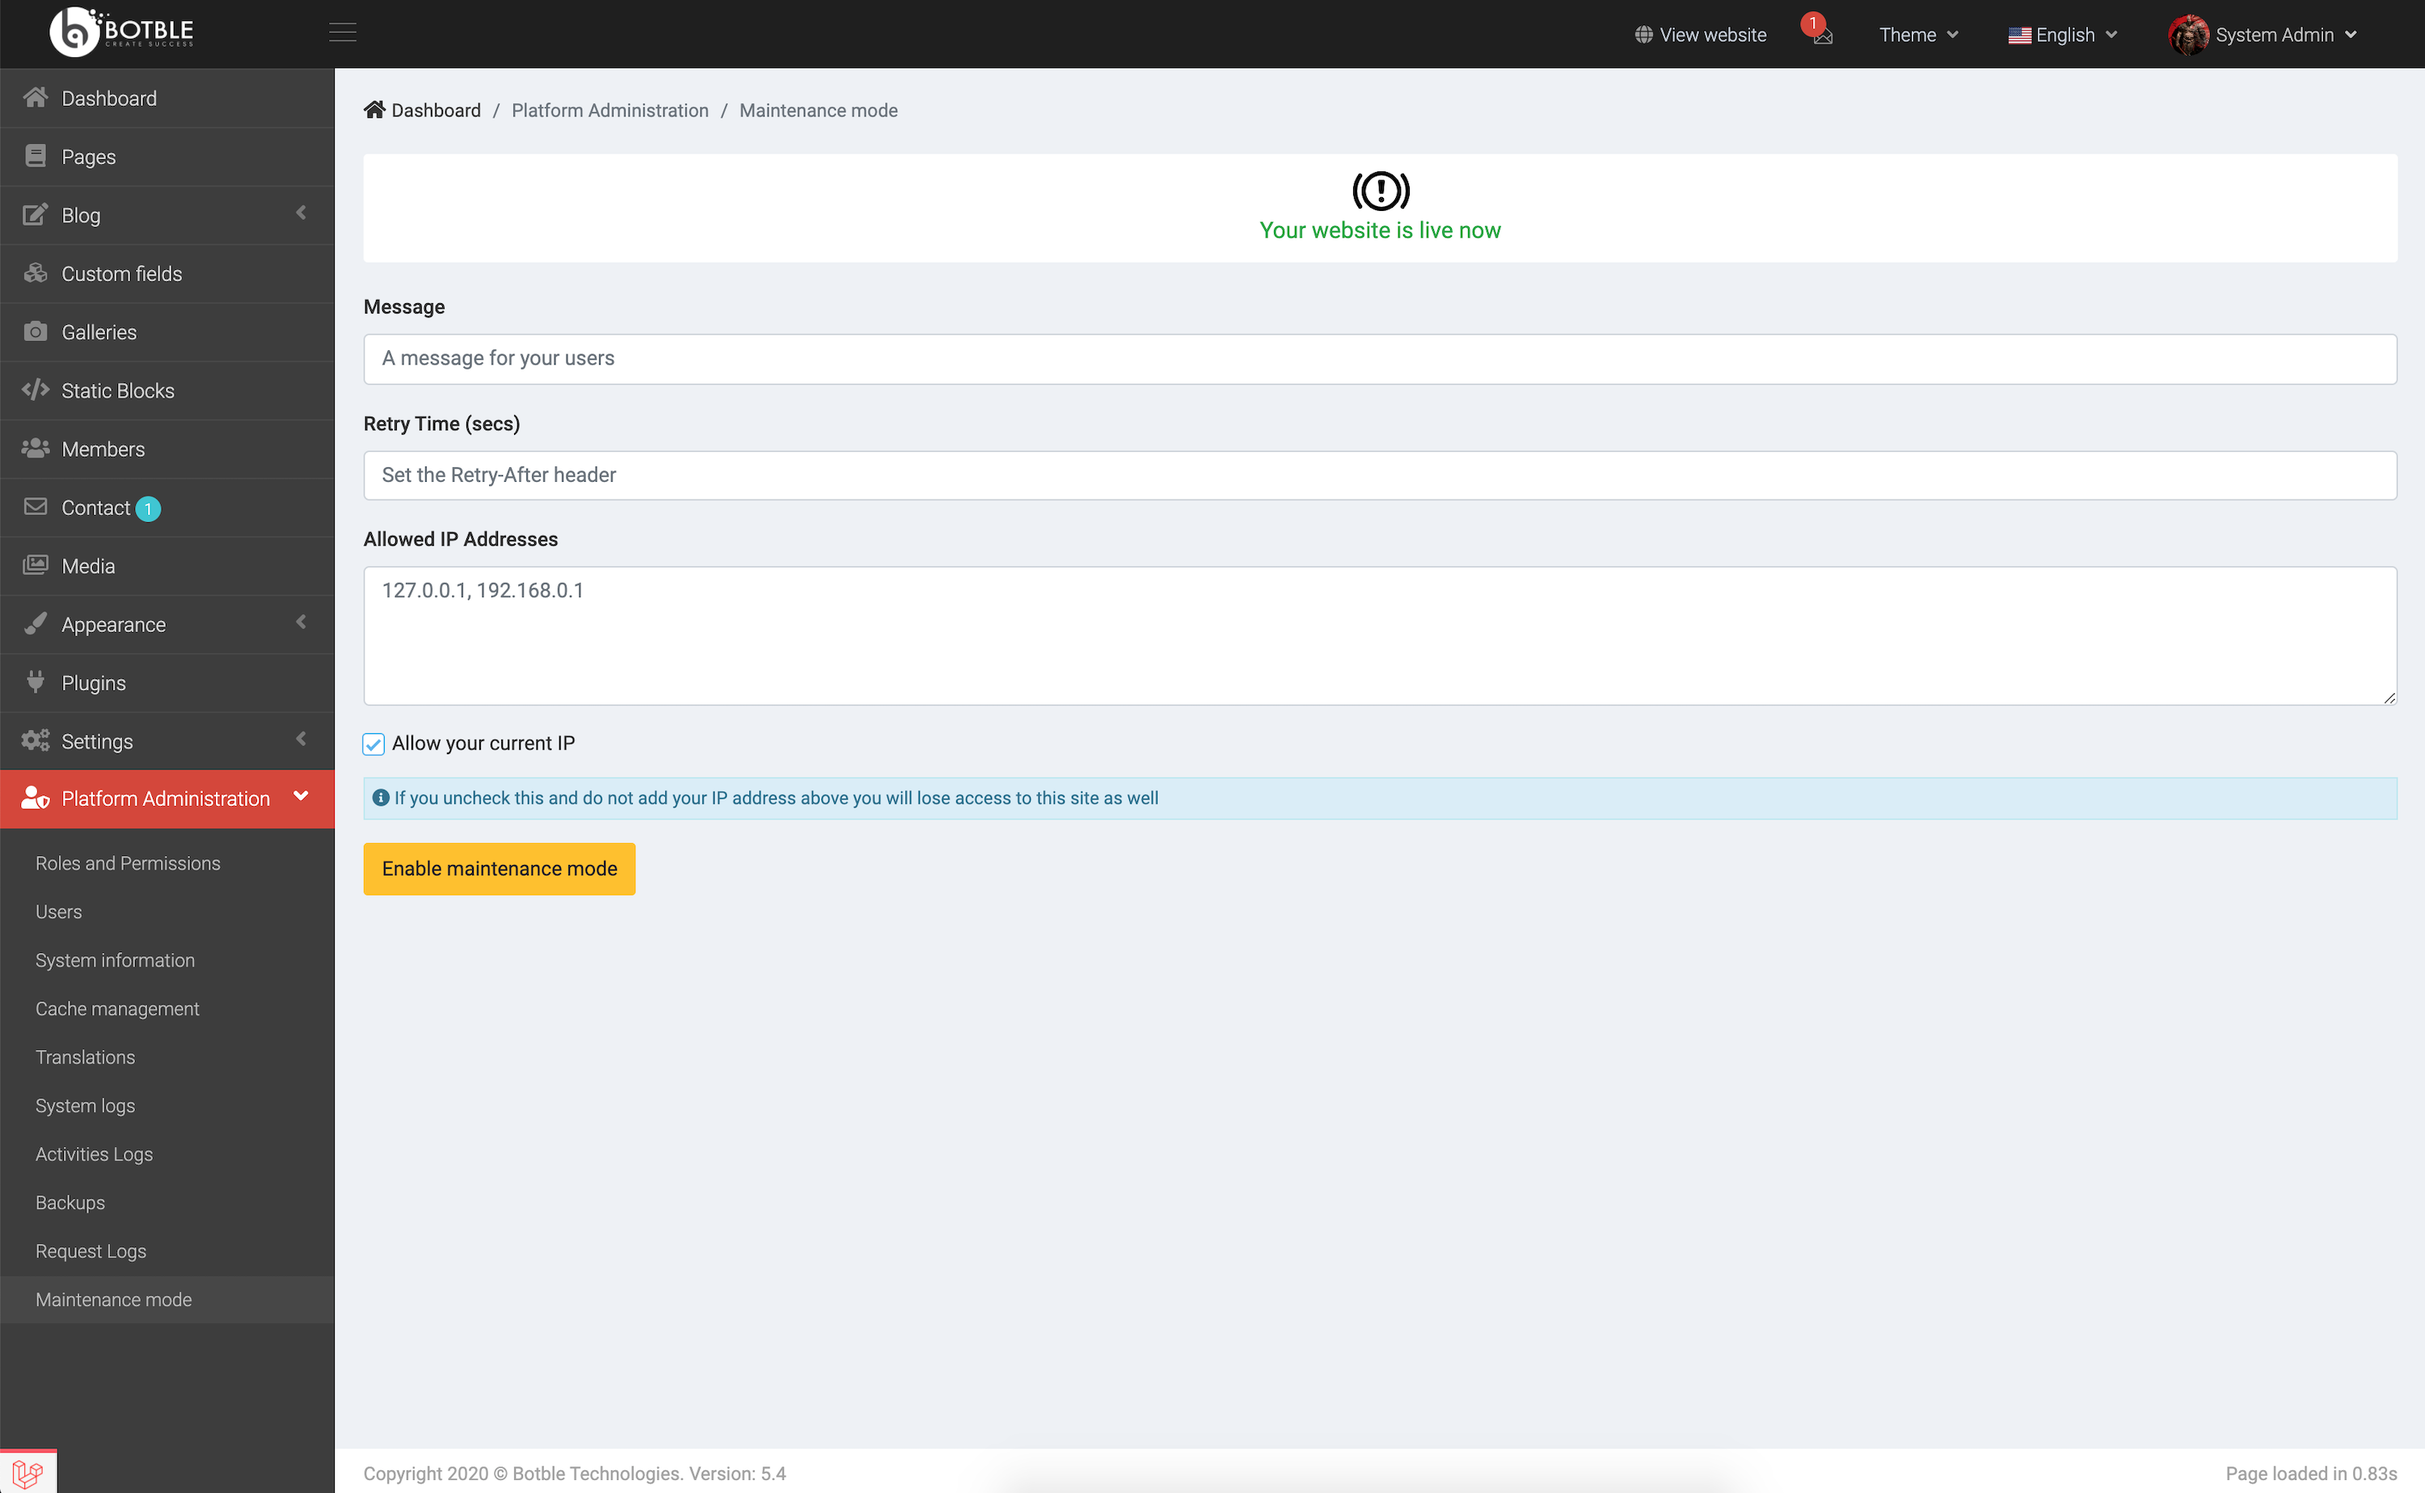
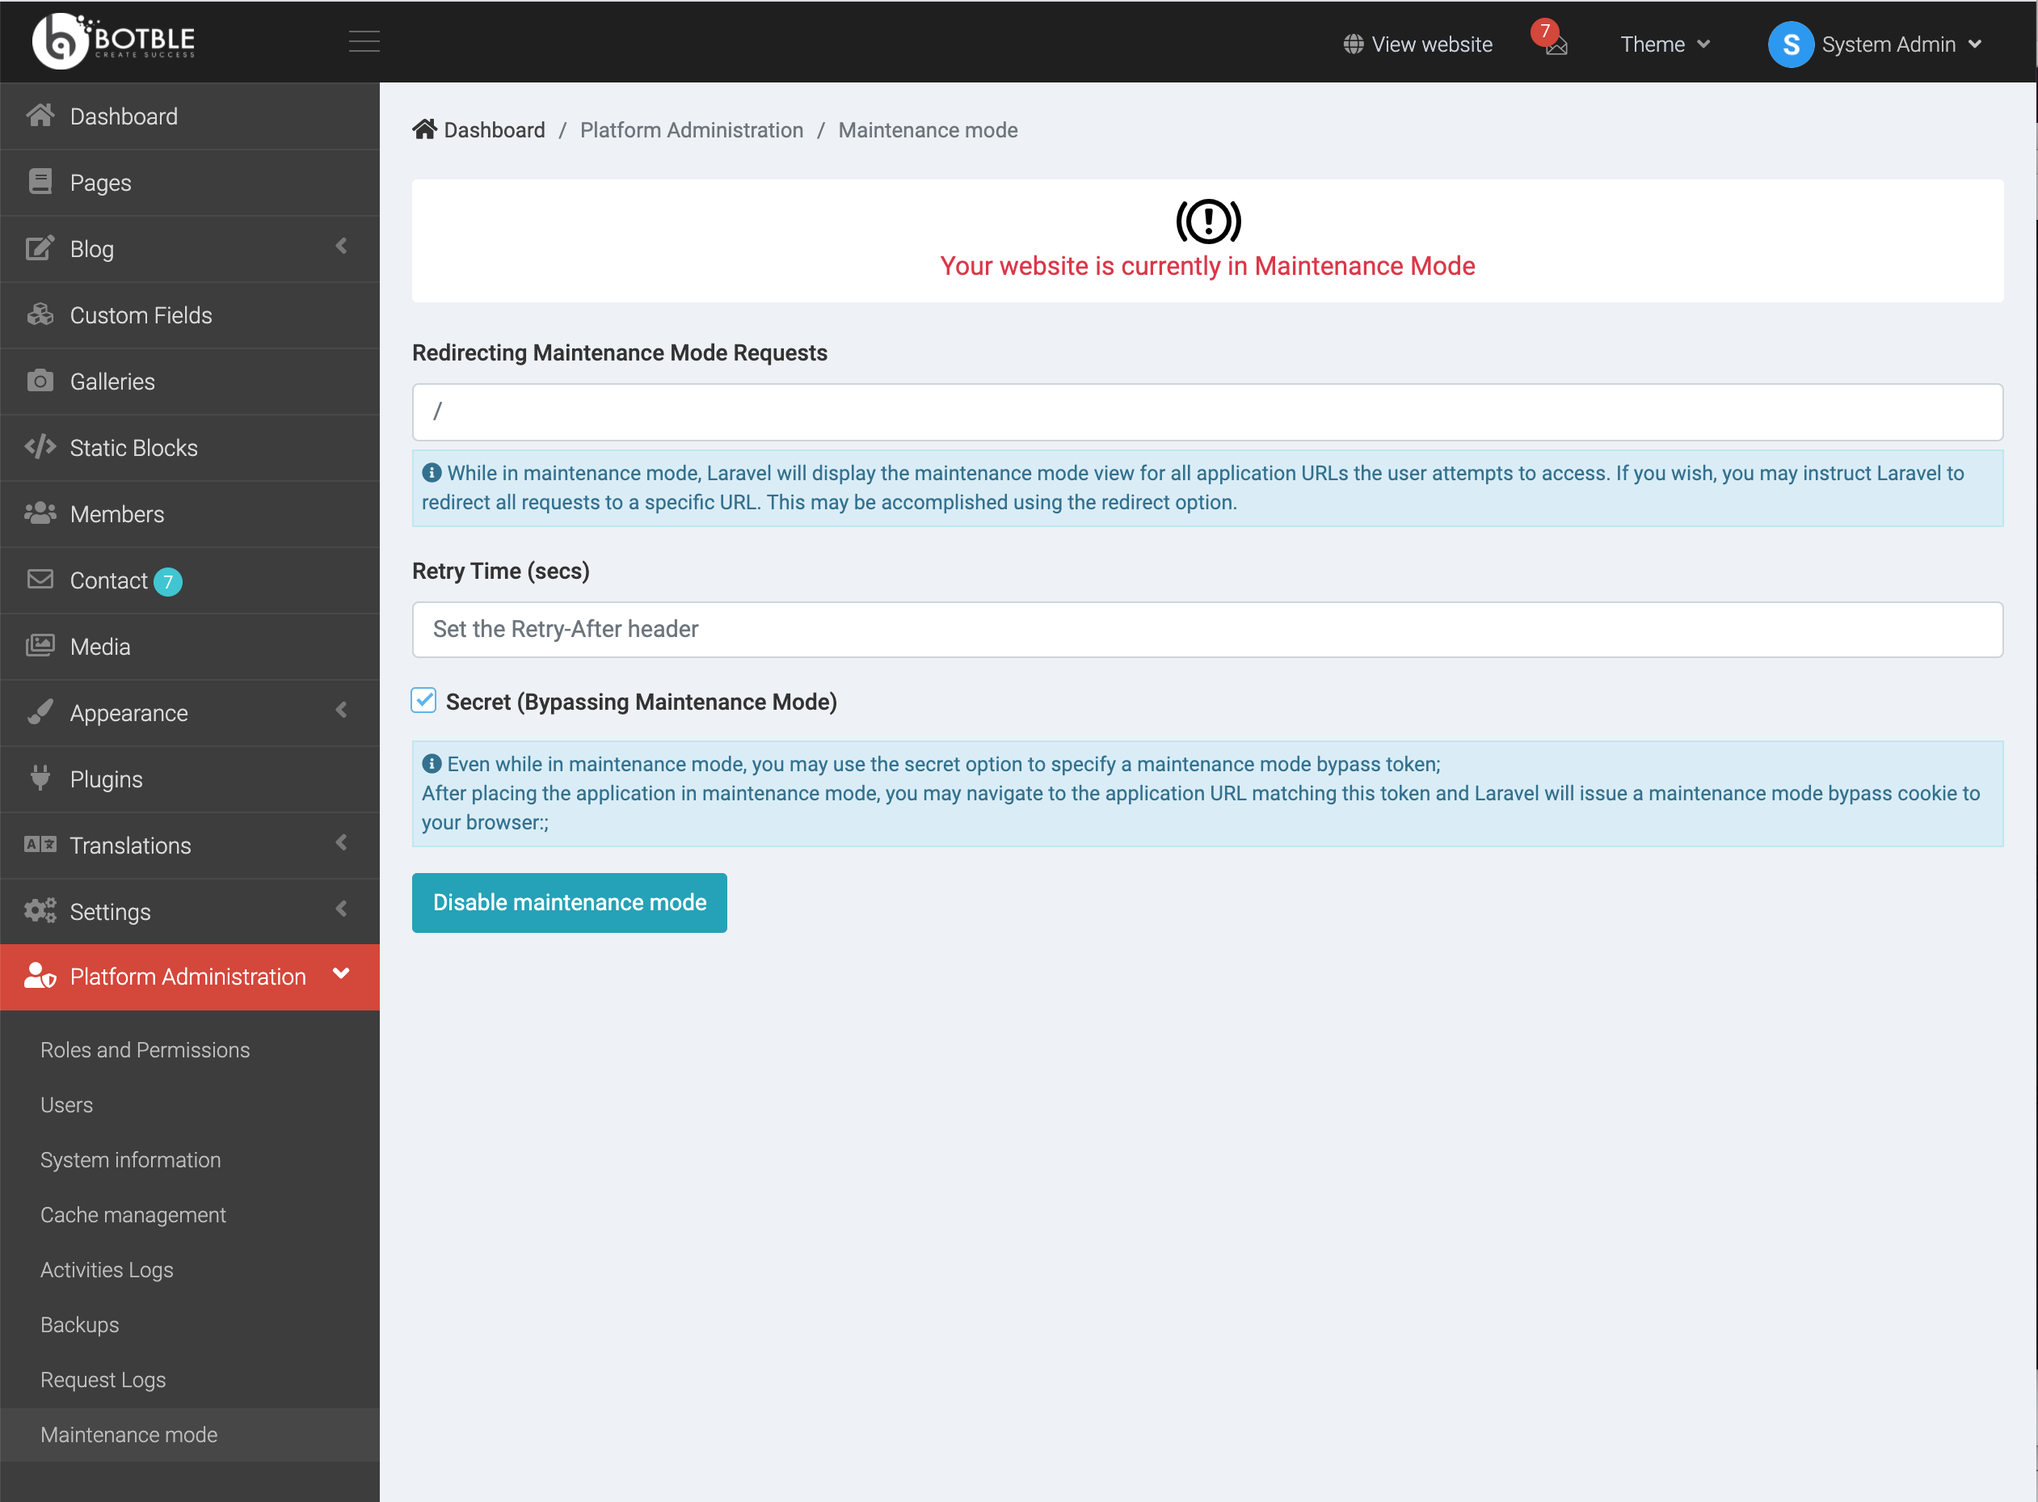
Make it compatible with Laravel 8.x

diff --git a/public/js/maintenance.js b/public/js/maintenance.js
@@ -1,176 +1,1 @@
-/******/ (function(modules) { // webpackBootstrap
-/******/ 	// The module cache
-/******/ 	var installedModules = {};
-/******/
-/******/ 	// The require function
-/******/ 	function __webpack_require__(moduleId) {
-/******/
-/******/ 		// Check if module is in cache
-/******/ 		if(installedModules[moduleId]) {
-/******/ 			return installedModules[moduleId].exports;
-/******/ 		}
-/******/ 		// Create a new module (and put it into the cache)
-/******/ 		var module = installedModules[moduleId] = {
-/******/ 			i: moduleId,
-/******/ 			l: false,
-/******/ 			exports: {}
-/******/ 		};
-/******/
-/******/ 		// Execute the module function
-/******/ 		modules[moduleId].call(module.exports, module, module.exports, __webpack_require__);
-/******/
-/******/ 		// Flag the module as loaded
-/******/ 		module.l = true;
-/******/
-/******/ 		// Return the exports of the module
-/******/ 		return module.exports;
-/******/ 	}
-/******/
-/******/
-/******/ 	// expose the modules object (__webpack_modules__)
-/******/ 	__webpack_require__.m = modules;
-/******/
-/******/ 	// expose the module cache
-/******/ 	__webpack_require__.c = installedModules;
-/******/
-/******/ 	// define getter function for harmony exports
-/******/ 	__webpack_require__.d = function(exports, name, getter) {
-/******/ 		if(!__webpack_require__.o(exports, name)) {
-/******/ 			Object.defineProperty(exports, name, { enumerable: true, get: getter });
-/******/ 		}
-/******/ 	};
-/******/
-/******/ 	// define __esModule on exports
-/******/ 	__webpack_require__.r = function(exports) {
-/******/ 		if(typeof Symbol !== 'undefined' && Symbol.toStringTag) {
-/******/ 			Object.defineProperty(exports, Symbol.toStringTag, { value: 'Module' });
-/******/ 		}
-/******/ 		Object.defineProperty(exports, '__esModule', { value: true });
-/******/ 	};
-/******/
-/******/ 	// create a fake namespace object
-/******/ 	// mode & 1: value is a module id, require it
-/******/ 	// mode & 2: merge all properties of value into the ns
-/******/ 	// mode & 4: return value when already ns object
-/******/ 	// mode & 8|1: behave like require
-/******/ 	__webpack_require__.t = function(value, mode) {
-/******/ 		if(mode & 1) value = __webpack_require__(value);
-/******/ 		if(mode & 8) return value;
-/******/ 		if((mode & 4) && typeof value === 'object' && value && value.__esModule) return value;
-/******/ 		var ns = Object.create(null);
-/******/ 		__webpack_require__.r(ns);
-/******/ 		Object.defineProperty(ns, 'default', { enumerable: true, value: value });
-/******/ 		if(mode & 2 && typeof value != 'string') for(var key in value) __webpack_require__.d(ns, key, function(key) { return value[key]; }.bind(null, key));
-/******/ 		return ns;
-/******/ 	};
-/******/
-/******/ 	// getDefaultExport function for compatibility with non-harmony modules
-/******/ 	__webpack_require__.n = function(module) {
-/******/ 		var getter = module && module.__esModule ?
-/******/ 			function getDefault() { return module['default']; } :
-/******/ 			function getModuleExports() { return module; };
-/******/ 		__webpack_require__.d(getter, 'a', getter);
-/******/ 		return getter;
-/******/ 	};
-/******/
-/******/ 	// Object.prototype.hasOwnProperty.call
-/******/ 	__webpack_require__.o = function(object, property) { return Object.prototype.hasOwnProperty.call(object, property); };
-/******/
-/******/ 	// __webpack_public_path__
-/******/ 	__webpack_require__.p = "/";
-/******/
-/******/
-/******/ 	// Load entry module and return exports
-/******/ 	return __webpack_require__(__webpack_require__.s = 63);
-/******/ })
-/************************************************************************/
-/******/ ({
-
-/***/ "./platform/plugins/maintenance-mode/resources/assets/js/maintenance.js":
-/*!******************************************************************************!*\
-  !*** ./platform/plugins/maintenance-mode/resources/assets/js/maintenance.js ***!
-  \******************************************************************************/
-/*! no static exports found */
-/***/ (function(module, exports) {
-
-function _classCallCheck(instance, Constructor) { if (!(instance instanceof Constructor)) { throw new TypeError("Cannot call a class as a function"); } }
-
-function _defineProperties(target, props) { for (var i = 0; i < props.length; i++) { var descriptor = props[i]; descriptor.enumerable = descriptor.enumerable || false; descriptor.configurable = true; if ("value" in descriptor) descriptor.writable = true; Object.defineProperty(target, descriptor.key, descriptor); } }
-
-function _createClass(Constructor, protoProps, staticProps) { if (protoProps) _defineProperties(Constructor.prototype, protoProps); if (staticProps) _defineProperties(Constructor, staticProps); return Constructor; }
-
-var MaintenanceMode = /*#__PURE__*/function () {
-  function MaintenanceMode() {
-    _classCallCheck(this, MaintenanceMode);
-  }
-
-  _createClass(MaintenanceMode, [{
-    key: "init",
-    value: function init() {
-      $(document).on('click', '#btn-maintenance', function (event) {
-        event.preventDefault();
-
-        var _self = $(event.currentTarget);
-
-        _self.addClass('button-loading');
-
-        $.ajax({
-          type: 'POST',
-          url: route('system.maintenance.run'),
-          cache: false,
-          data: _self.closest('form').serialize(),
-          success: function success(res) {
-            if (!res.error) {
-              Botble.showSuccess(res.message);
-
-              _self.text(res.data.message);
-
-              if (!res.data.is_down) {
-                _self.removeClass('btn-warning').addClass('btn-info');
-              } else {
-                _self.addClass('btn-warning').removeClass('btn-info');
-              }
-
-              if (res.data.is_down) {
-                _self.closest('form').find('.maintenance-mode-notice div span').addClass('text-danger').removeClass('text-success').text(res.data.notice);
-              } else {
-                _self.closest('form').find('.maintenance-mode-notice div span').removeClass('text-danger').addClass('text-success').text(res.data.notice);
-              }
-            } else {
-              Botble.showError(res.message);
-            }
-
-            _self.removeClass('button-loading');
-          },
-          error: function error(res) {
-            Botble.handleError(res);
-
-            _self.removeClass('button-loading');
-          }
-        });
-      });
-    }
-  }]);
-
-  return MaintenanceMode;
-}();
-
-$(document).ready(function () {
-  new MaintenanceMode().init();
-});
-
-/***/ }),
-
-/***/ 63:
-/*!************************************************************************************!*\
-  !*** multi ./platform/plugins/maintenance-mode/resources/assets/js/maintenance.js ***!
-  \************************************************************************************/
-/*! no static exports found */
-/***/ (function(module, exports, __webpack_require__) {
-
-module.exports = __webpack_require__(/*! /Users/mac/workspace/cms/platform/plugins/maintenance-mode/resources/assets/js/maintenance.js */"./platform/plugins/maintenance-mode/resources/assets/js/maintenance.js");
-
-
-/***/ })
-
-/******/ });
+(()=>{function e(e,n){for(var t=0;t<n.length;t++){var a=n[t];a.enumerable=a.enumerable||!1,a.configurable=!0,"value"in a&&(a.writable=!0),Object.defineProperty(e,a.key,a)}}var n=function(){function n(){!function(e,n){if(!(e instanceof n))throw new TypeError("Cannot call a class as a function")}(this,n)}var t,a;return t=n,(a=[{key:"init",value:function(){$(document).on("click","#btn-maintenance",(function(e){e.preventDefault();var n=$(e.currentTarget);n.addClass("button-loading"),$.ajax({type:"POST",url:route("system.maintenance.run"),cache:!1,data:n.closest("form").serialize(),success:function(e){if(e.error)Botble.showError(e.message);else{Botble.showSuccess(e.message);var t=e.data;n.text(t.message),t.is_down?(n.addClass("btn-warning").removeClass("btn-info"),n.closest("form").find(".maintenance-mode-notice div span").addClass("text-danger").removeClass("text-success").text(t.notice),t.url&&($("#bypassMaintenanceMode .maintenance-mode-bypass").attr("href",t.url),$("#bypassMaintenanceMode").modal("show"))):(n.removeClass("btn-warning").addClass("btn-info"),n.closest("form").find(".maintenance-mode-notice div span").removeClass("text-danger").addClass("text-success").text(t.notice))}},error:function(e){Botble.handleError(e)},complete:function(){n.removeClass("button-loading")}})}))}}])&&e(t.prototype,a),n}();$(document).ready((function(){(new n).init()}))})();

diff --git a/resources/assets/js/maintenance.js b/resources/assets/js/maintenance.js
@@ -15,7 +15,7 @@ class MaintenanceMode {
                         Botble.showSuccess(res.message);
                         const data = res.data;
                         _self.text(data.message);
-                        if ( ! data.is_down) {
+                        if (!data.is_down) {
                             _self.removeClass('btn-warning').addClass('btn-info');
                             _self.closest('form').find('.maintenance-mode-notice div span').removeClass('text-danger').addClass('text-success').text(data.notice);
                         } else {
@@ -33,7 +33,7 @@ class MaintenanceMode {
                 error: (res) => {
                     Botble.handleError(res);
                 },
-                complete: (res) => {
+                complete: () => {
                     _self.removeClass('button-loading');
                 }
             });

diff --git a/webpack.mix.js b/webpack.mix.js
@@ -1,8 +1,11 @@
 let mix = require('laravel-mix');
 
-const publicPath = 'public/vendor/core/plugins/maintenance-mode';
-const resourcePath = './platform/plugins/maintenance-mode';
+const path = require('path');
+let directory = path.basename(path.resolve(__dirname));
+
+const source = 'platform/plugins/' + directory;
+const dist = 'public/vendor/core/plugins/' + directory;
 
 mix
-    .js(resourcePath + '/resources/assets/js/maintenance.js', publicPath + '/js/maintenance.js')
-    .copy(publicPath + '/js/maintenance.js', resourcePath + '/public/js');
+    .js(source + '/resources/assets/js/maintenance.js', dist + '/js/maintenance.js')
+    .copy(dist + '/js/maintenance.js', source + '/public/js');

diff --git a/src/Supports/MaintenanceMode.php b/src/Supports/MaintenanceMode.php
@@ -3,7 +3,6 @@
 namespace Botble\MaintenanceMode\Supports;
 
 use Illuminate\Http\Request;
-use Botble\Base\Supports\Helper;
 use Illuminate\Support\Str;
 
 /**
@@ -18,7 +17,17 @@ class MaintenanceMode
      */
     public function up()
     {
-        Helper::executeCommand('up');
+        if (is_file(storage_path('framework/down'))) {
+            unlink(storage_path('framework/down'));
+
+            if (is_file(storage_path('framework/maintenance.php'))) {
+                unlink(storage_path('framework/maintenance.php'));
+            }
+
+            return true;
+        }
+
+        return false;
     }
 
     /**
@@ -27,26 +36,39 @@ class MaintenanceMode
      * @param Request $request
      * @return boolean
      */
-    public function down($request)
+    public function down(Request $request)
     {
         $secret = '';
-        $params = [];
+        $params = [
+            'status'   => 503,
+            'template' => null,
+        ];
 
         if ($request->has('redirect')) {
-            $params['--redirect'] = $request->get('redirect');
+            $params['redirect'] = $request->input('redirect');
         }
 
         if ($request->has('retry')) {
-            $params['--retry'] = $request->get('retry');
+            $params['retry'] = $request->input('retry');
         }
 
-        $use_secret = $request->get('use_secret');
-        if ($use_secret) {
-            $secret = (string) Str::uuid();
-            $params['--secret'] = $secret;
+        $useSecret = $request->input('use_secret');
+        if ($useSecret) {
+            $secret = (string)Str::uuid();
+            $params['secret'] = $secret;
         }
 
-        Helper::executeCommand('down', $params);
+        if (!is_file(storage_path('framework/down'))) {
+            file_put_contents(
+                storage_path('framework/down'),
+                json_encode($params, JSON_PRETTY_PRINT)
+            );
+
+            file_put_contents(
+                storage_path('framework/maintenance.php'),
+                file_get_contents(base_path('vendor/laravel/framework/src/Illuminate/Foundation/Console/stubs/maintenance-mode.stub'))
+            );
+        }
 
         return $secret;
     }

diff --git a/resources/views/maintenance.blade.php b/resources/views/maintenance.blade.php
@@ -39,10 +39,7 @@
                     </button>
                 </div>
                 <div class="modal-body">
-                    <h3>{!! trans('plugins/maintenance-mode::maintenance-mode.click_to_bypass_maintenance_mode') !!}</h3>
-                </div>
-                <div class="modal-footer">
-                <button type="button" class="btn btn-secondary" data-dismiss="modal">{{ trans('plugins/maintenance-mode::maintenance-mode.close') }}</button>
+                    <p>{!! clean(trans('plugins/maintenance-mode::maintenance-mode.click_to_bypass_maintenance_mode')) !!}</p>
                 </div>
             </div>
         </div>

diff --git a/src/Http/Controllers/MaintenanceModeController.php b/src/Http/Controllers/MaintenanceModeController.php
@@ -49,6 +49,7 @@ class MaintenanceModeController extends Controller
         }
 
         $secret = $maintenanceMode->down($request);
+
         return $response
             ->setMessage(trans('plugins/maintenance-mode::maintenance-mode.application_down'))
             ->setData([

diff --git a/readme.md b/readme.md
@@ -2,6 +2,11 @@
 This is a plugin for Botble CMS so you have to purchase Botble CMS first to use this plugin. 
 Purchase it here: [https://codecanyon.net/item/botble-cms-php-platform-based-on-laravel-framework/16928182](https://1.envato.market/LWRBY)
 
+# Version compatible
+
+- Using version 1.0 if you are using Botble CMS <= 5.12 (Laravel 7.x).
+- Using version 2.0 if you are using Botble CMS >= 5.13 (Laravel 8.x).
+
 # Installation
 - Download and copy source code into `/platform/plugins/maintenance-mode`.
 - Run command `php artisan cms:plugin:activate maintenance-mode` to activate this plugin.
